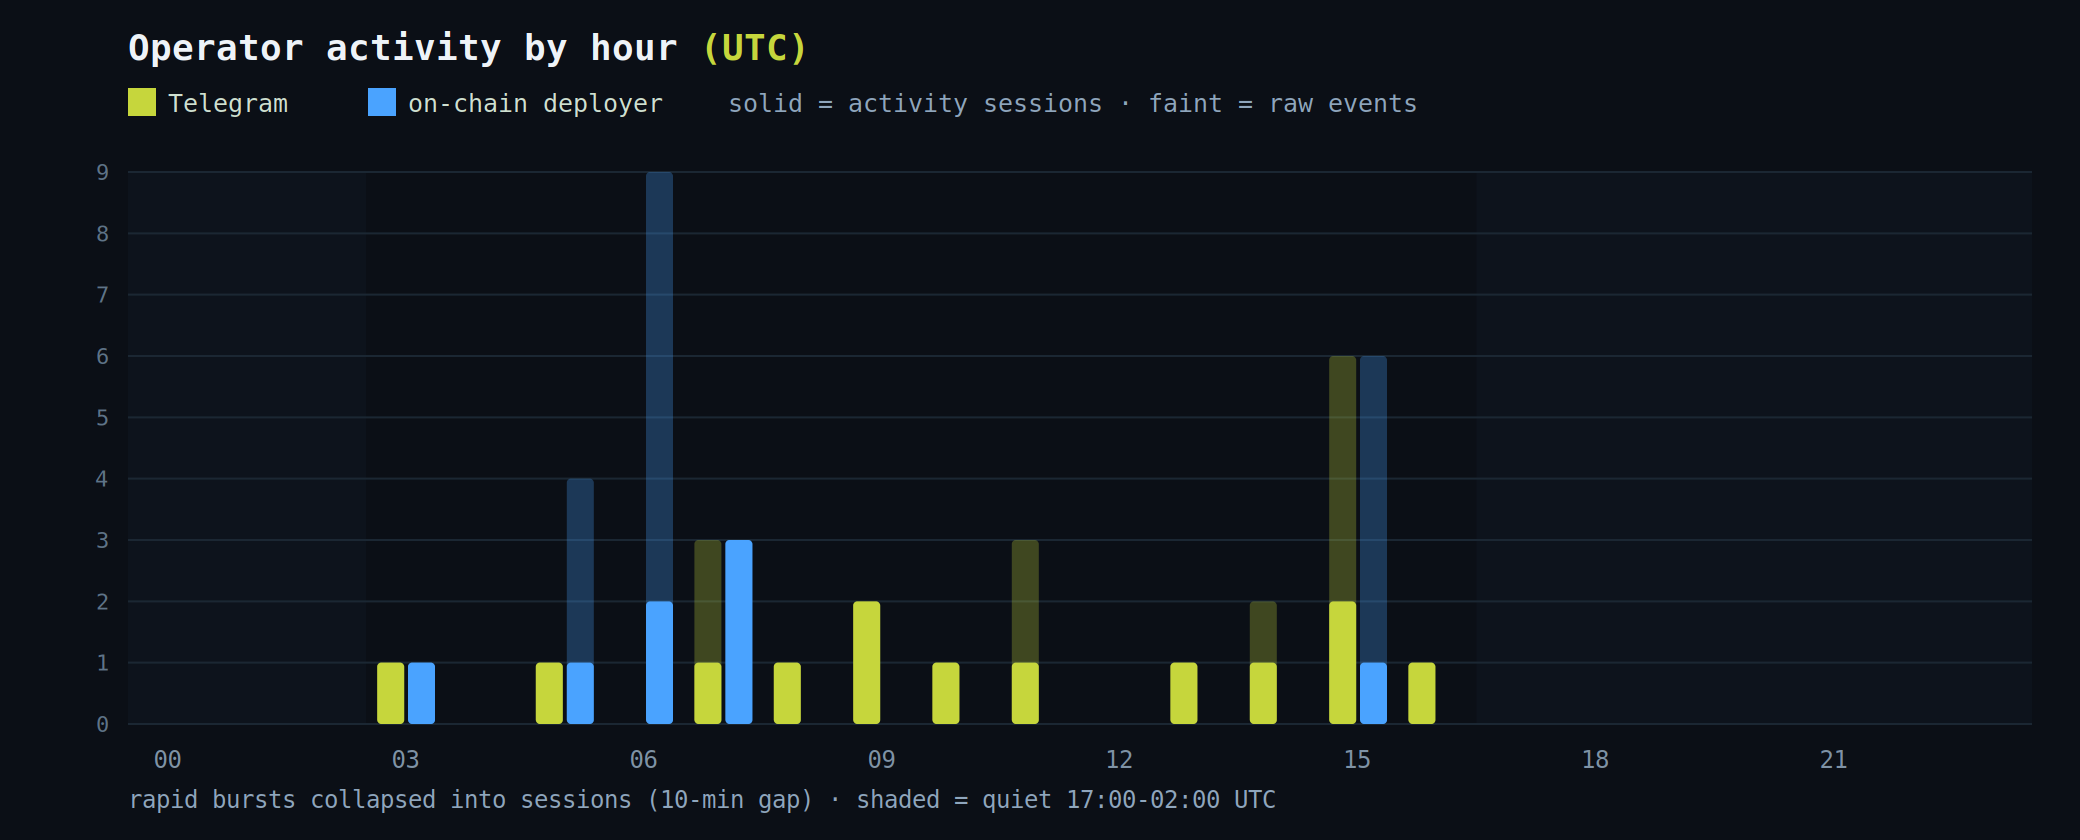
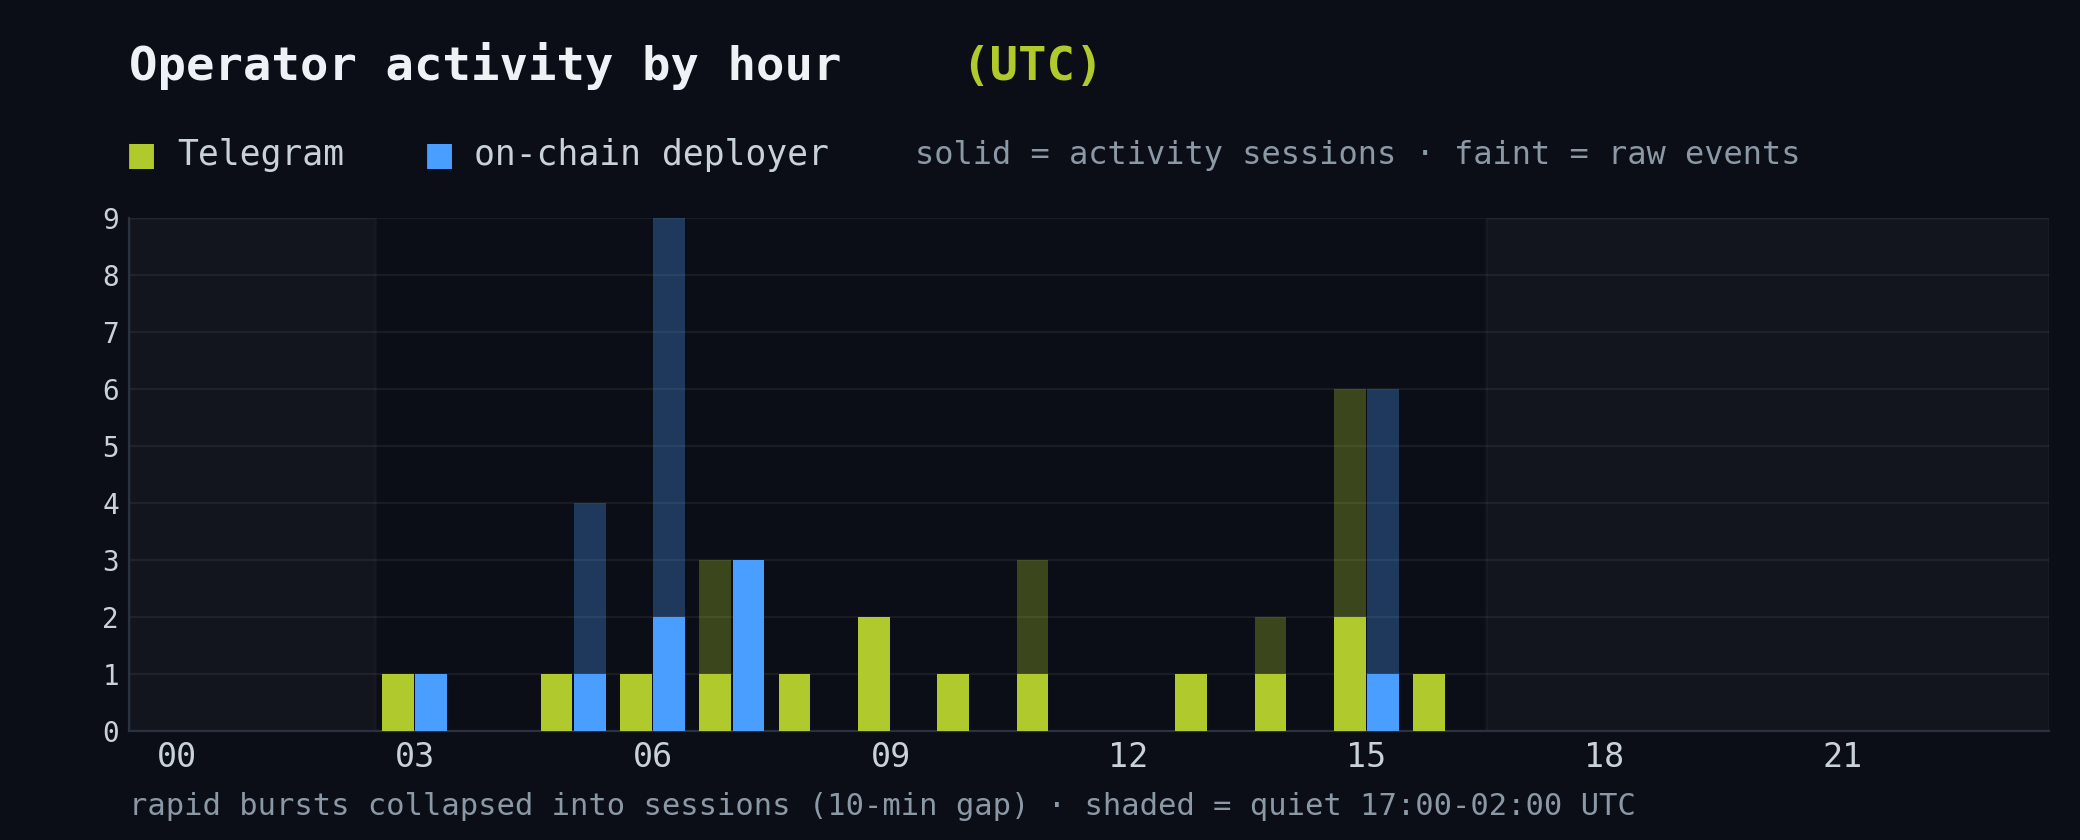
posting-pattern: fold in post /33 (Aug 28), regenerate both charts (TG 23 posts / 14 sessions); writing-style: add /33 two-dot example

diff --git a/posting-pattern/make_charts.py b/posting-pattern/make_charts.py
@@ -1,0 +1,101 @@
+#!/usr/bin/env python3
+# Regenerate the posting-pattern charts from the timestamp files.
+import datetime
+from datetime import timezone
+from collections import Counter
+import matplotlib
+matplotlib.use("Agg")
+import matplotlib.pyplot as plt
+from matplotlib.patches import Patch
+
+BG="#0b0e16"; TG="#b0c92c"; ON="#4a9eff"
+TXT="#c9d1d9"; MUT="#8b98a5"; TITLE="#eef2f6"
+GRID="#ffffff"
+
+plt.rcParams.update({
+    "font.family":"monospace","font.monospace":["DejaVu Sans Mono"],
+    "figure.facecolor":BG,"axes.facecolor":BG,"savefig.facecolor":BG,
+    "text.color":TXT,"axes.labelcolor":TXT,"xtick.color":TXT,"ytick.color":TXT,
+})
+
+def load(path):
+    dts=[]
+    for raw in open(path):
+        s=raw.strip()
+        if not s or s.startswith("#"): continue
+        s2=s[:-1]+"+00:00" if s.endswith("Z") else s
+        try: dt=datetime.datetime.fromisoformat(s2)
+        except ValueError: continue
+        if dt.tzinfo is None: dt=dt.replace(tzinfo=timezone.utc)
+        dts.append(dt.astimezone(timezone.utc))
+    dts.sort(); return dts
+
+def hists(dts,gap=10):
+    raw=Counter(d.hour for d in dts)
+    sess=[]; prev=None
+    for d in dts:
+        if prev is None or (d-prev).total_seconds()>gap*60: sess.append(d)
+        prev=d
+    return raw, Counter(d.hour for d in sess), len(dts), len(sess)
+
+tg=load("telegram-post-times.txt"); oc=load("deployer-onchain-times.txt")
+tg_raw,tg_sess,tg_n,tg_s = hists(tg)
+oc_raw,oc_sess,oc_n,oc_s = hists(oc)
+
+def style_axes(ax, ymax):
+    for sp in ("top","right"): ax.spines[sp].set_visible(False)
+    for sp in ("left","bottom"): ax.spines[sp].set_color("#2a3242")
+    ax.set_xlim(-0.6,23.6); ax.set_ylim(0,ymax)
+    ax.set_xticks(range(0,24,3)); ax.set_xticklabels([f"{h:02d}" for h in range(0,24,3)],fontsize=12)
+    ax.set_yticks(range(0,ymax+1)); ax.tick_params(length=0)
+    ax.set_axisbelow(True); ax.grid(axis="y",color=GRID,alpha=0.06,linewidth=0.8)
+    # quiet band 17:00-02:00
+    for x0,x1 in [(-0.6,2.5),(16.5,23.6)]:
+        ax.axvspan(x0,x1,color=GRID,alpha=0.030,zorder=0)
+
+# ---------- chart 1: activity by hour (raw faint + sessions solid) ----------
+fig,ax=plt.subplots(figsize=(10.4,4.2),dpi=200)
+style_axes(ax,9)
+w=0.40
+for h in range(24):
+    ax.bar(h-0.21, tg_raw.get(h,0), w, color=TG, alpha=0.30, zorder=3)
+    ax.bar(h-0.21, tg_sess.get(h,0), w, color=TG, alpha=1.0, zorder=4)
+    ax.bar(h+0.21, oc_raw.get(h,0), w, color=ON, alpha=0.30, zorder=3)
+    ax.bar(h+0.21, oc_sess.get(h,0), w, color=ON, alpha=1.0, zorder=4)
+fig.text(0.062,0.905,"Operator activity by hour ",fontsize=17,weight="bold",color=TITLE,ha="left")
+fig.text(0.462,0.905,"(UTC)",fontsize=17,weight="bold",color=TG,ha="left")
+# legend row
+def legend_row(y):
+    fig.text(0.062,y,"■",color=TG,fontsize=15,va="center")
+    fig.text(0.085,y,"Telegram",color=TXT,fontsize=12.5,va="center")
+    fig.text(0.205,y,"■",color=ON,fontsize=15,va="center")
+    fig.text(0.228,y,"on-chain deployer",color=TXT,fontsize=12.5,va="center")
+    return
+legend_row(0.815)
+fig.text(0.44,0.815,"solid = activity sessions · faint = raw events",color=MUT,fontsize=11.5,va="center")
+fig.text(0.062,0.03,"rapid bursts collapsed into sessions (10-min gap) · shaded = quiet 17:00-02:00 UTC",color=MUT,fontsize=11)
+fig.subplots_adjust(left=0.062,right=0.985,top=0.74,bottom=0.13)
+fig.savefig("activity-by-hour.png"); plt.close(fig)
+
+# ---------- chart 2: daily activity window (sessions only) ----------
+fig,ax=plt.subplots(figsize=(10.4,3.6),dpi=200)
+style_axes(ax,3)
+for h in range(24):
+    ax.bar(h-0.21, tg_sess.get(h,0), w, color=TG, zorder=4)
+    ax.bar(h+0.21, oc_sess.get(h,0), w, color=ON, zorder=4)
+fig.text(0.062,0.9,"Daily activity window ",fontsize=17,weight="bold",color=TITLE,ha="left")
+fig.text(0.402,0.9,"(UTC)",fontsize=17,weight="bold",color=TG,ha="left")
+fig.text(0.062,0.79,"■",color=TG,fontsize=15,va="center")
+fig.text(0.085,0.79,f"Telegram (n={tg_s})",color=TXT,fontsize=12.5,va="center")
+fig.text(0.245,0.79,"■",color=ON,fontsize=15,va="center")
+fig.text(0.268,0.79,f"on-chain deployer (n={oc_s})",color=TXT,fontsize=12.5,va="center")
+fig.text(0.062,0.035,"activity sessions · active 03:00-16:00 UTC · shaded = quiet 17:00-02:00 UTC (zero in both)",color=MUT,fontsize=11)
+fig.subplots_adjust(left=0.062,right=0.985,top=0.70,bottom=0.15)
+fig.savefig("activity-window.png"); plt.close(fig)
+
+print(f"TG raw={tg_n} sessions={tg_s} | on-chain raw={oc_n} sessions={oc_s}")
+print("hour  TGraw/sess  OCraw/sess")
+for h in range(24):
+    if tg_raw.get(h) or oc_raw.get(h):
+        print(f" {h:02d}   {tg_raw.get(h,0)}/{tg_sess.get(h,0)}        {oc_raw.get(h,0)}/{oc_sess.get(h,0)}")
+print("charts written")

diff --git a/posting-pattern/README.md b/posting-pattern/README.md
@@ -22,7 +22,7 @@ session count are shown below. See [`analyze_times.py`](analyze_times.py).
 
 ## Data
 
-22 Telegram posts + 23 on-chain deployer actions. All timestamps UTC.
+23 Telegram posts + 23 on-chain deployer actions. All timestamps UTC.
 
 ![Operator activity by hour, UTC - Telegram and on-chain deployer activity](activity-by-hour.png)
 
@@ -30,7 +30,7 @@ session count are shown below. See [`analyze_times.py`](analyze_times.py).
 hour          TG (raw/sessions)   on-chain (raw/sessions)
 03:00              1 / 1                1 / 1
 05:00              1 / 1                4 / 1
-06:00              0 / 0                9 / 2
+06:00              1 / 1                9 / 2
 07:00              3 / 1                3 / 3
 08:00              1 / 1                0 / 0
 09:00              2 / 2                0 / 0
@@ -42,7 +42,7 @@ hour          TG (raw/sessions)   on-chain (raw/sessions)
 16:00              1 / 1                0 / 0
 17:00-02:00        0 / 0                0 / 0   (both zero)
 
-raw events: TG 22, on-chain 23   |   sessions: TG 13, on-chain 8
+raw events: TG 23, on-chain 23   |   sessions: TG 14, on-chain 8
 ```
 
 ## Finding
@@ -85,5 +85,5 @@ toward one, but a single greeting does not establish it. The pattern does
 **not** indicate whether one person or several are behind the operation. A quiet
 window is not proof of sleep - scheduled posting, automation, shift work,
 or multiple operators in different places would all produce the same
-shape. Both samples also cluster around 2026-08-25 to 08-26, a short
+shape. The samples span 2026-08-25 through 08-28, still a short
 window.

diff --git a/writing-style/README.md b/writing-style/README.md
@@ -107,6 +107,7 @@ The same tense substitution appears twice.
 ### Punctuation habit: two-dot ellipsis
 
 > "They want us to stop..   They thought I'd take their money. Fools..   They're scared of us.."
+> "Good morning guys.. More leaks coming today.." (t.me/cyberleeksreal/33, archived: https://archive.ph/zkVZh)
 
 Consistent `..` (two dots) rather than `...`.
 
